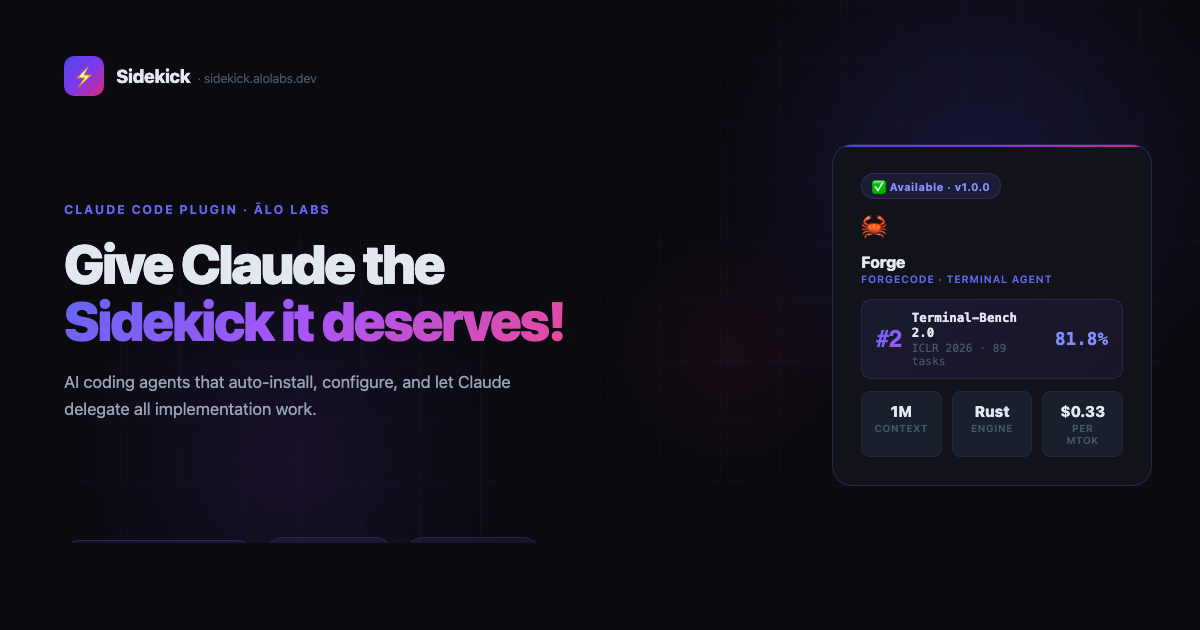
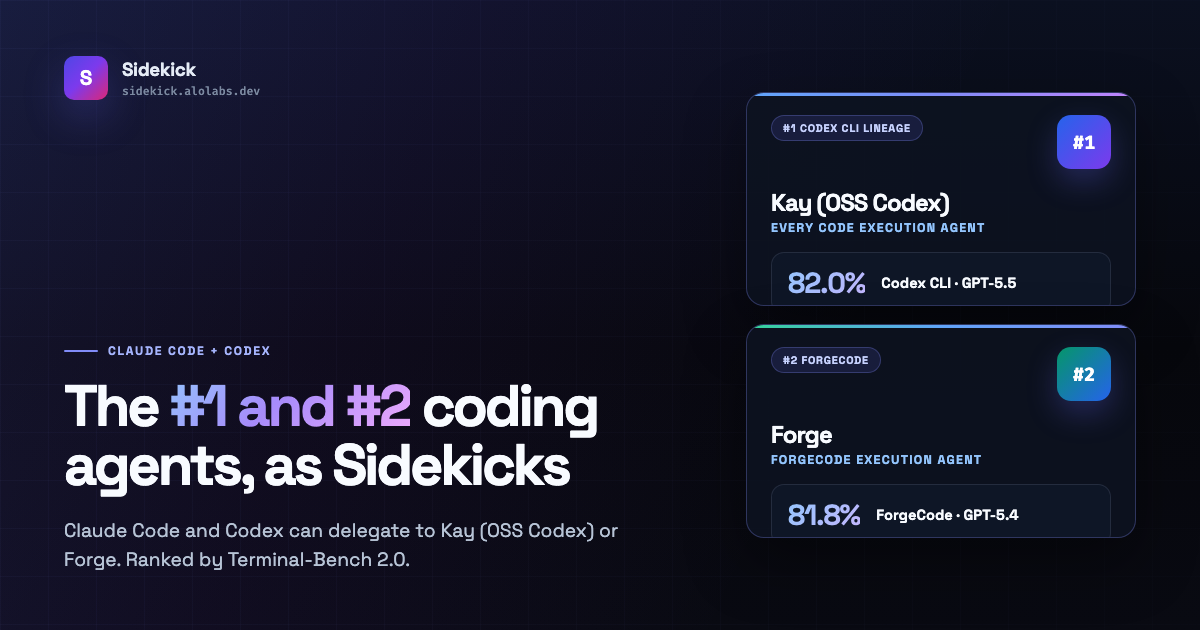
Refresh OpenGraph image for current agent support

diff --git a/docs/og-image.html b/docs/og-image.html
@@ -3,206 +3,177 @@
 <head>
 <meta charset="utf-8">
 <meta name="viewport" content="width=1200">
-<link href="https://fonts.googleapis.com/css2?family=Space+Grotesk:wght@400;700;800;900&family=Fira+Code:wght@500&display=swap" rel="stylesheet">
+<link href="https://fonts.googleapis.com/css2?family=Space+Grotesk:wght@400;600;700;800;900&family=Fira+Code:wght@500;700&display=swap" rel="stylesheet">
 <style>
 *{box-sizing:border-box;margin:0;padding:0}
 html,body{width:1200px;height:630px;overflow:hidden}
 body{
   font-family:'Space Grotesk',system-ui,sans-serif;
-  background:#0a0a0f;
-  color:#e2e8f0;
+  background:#07080d;
+  color:#e5ecf6;
   position:relative;
 }
-/* Background blobs */
-.blob-1{
-  position:absolute;top:-120px;right:-80px;
-  width:600px;height:600px;border-radius:50%;
-  background:radial-gradient(ellipse,rgba(79,70,229,.18) 0%,transparent 65%);
+body::before{
+  content:'';position:absolute;inset:0;
+  background:
+    linear-gradient(115deg,rgba(99,102,241,.15) 0%,rgba(124,58,237,.07) 33%,rgba(7,8,13,0) 68%),
+    linear-gradient(180deg,#0b1020 0%,#07080d 55%,#090a12 100%);
 }
-.blob-2{
-  position:absolute;bottom:-80px;left:40px;
-  width:500px;height:500px;border-radius:50%;
-  background:radial-gradient(ellipse,rgba(124,58,237,.12) 0%,transparent 65%);
-}
-.blob-3{
-  position:absolute;top:200px;right:320px;
-  width:300px;height:300px;border-radius:50%;
-  background:radial-gradient(ellipse,rgba(219,39,119,.07) 0%,transparent 65%);
-}
-/* Grid lines */
-.grid-lines{
-  position:absolute;inset:0;
+body::after{
+  content:'';position:absolute;inset:0;
   background-image:
-    linear-gradient(rgba(99,102,241,.04) 1px, transparent 1px),
-    linear-gradient(90deg, rgba(99,102,241,.04) 1px, transparent 1px);
-  background-size:60px 60px;
+    linear-gradient(rgba(129,140,248,.05) 1px,transparent 1px),
+    linear-gradient(90deg,rgba(129,140,248,.05) 1px,transparent 1px);
+  background-size:48px 48px;
+  mask-image:linear-gradient(90deg,rgba(0,0,0,.8),rgba(0,0,0,.2));
 }
 .content{
   position:relative;z-index:1;
-  display:flex;align-items:stretch;
   width:1200px;height:630px;
-}
-/* Left panel */
-.left{
-  flex:1;
+  display:grid;grid-template-columns:1fr 390px;gap:50px;
   padding:56px 64px;
-  display:flex;flex-direction:column;justify-content:space-between;
+}
+.left{
+  display:flex;flex-direction:column;justify-content:space-between;min-width:0;
 }
 .logo{
-  display:flex;align-items:center;gap:12px;
+  display:flex;align-items:center;gap:14px;
 }
-.logo-icon{
-  width:40px;height:40px;border-radius:10px;
-  background:linear-gradient(135deg,#4f46e5,#7c3aed,#db2777);
+.logo-mark{
+  width:44px;height:44px;border-radius:10px;
   display:flex;align-items:center;justify-content:center;
-  font-size:1.2rem;
+  background:linear-gradient(135deg,#4f46e5,#7c3aed 48%,#db2777);
+  color:#fff;font-size:1.3rem;font-weight:900;
+  box-shadow:0 16px 40px rgba(99,102,241,.26);
 }
 .logo-text{
-  font-size:1.15rem;font-weight:800;letter-spacing:-.02em;
-  color:#e2e8f0;
+  display:flex;flex-direction:column;gap:2px;
+}
+.logo-name{
+  font-size:1.18rem;font-weight:900;letter-spacing:-.02em;
 }
 .logo-domain{
-  font-size:.8rem;color:#475569;margin-left:4px;font-weight:400;
+  font-family:'Fira Code',monospace;font-size:.72rem;color:#7c8aa1;
 }
 .headline{
-  flex:1;display:flex;flex-direction:column;justify-content:center;
-  padding:0 0 8px;
+  max-width:680px;margin-top:18px;
 }
 .eyebrow{
-  font-size:.78rem;font-weight:700;letter-spacing:.14em;
-  text-transform:uppercase;color:#6366f1;margin-bottom:18px;
+  display:inline-flex;align-items:center;gap:10px;
+  font-size:.76rem;font-weight:800;letter-spacing:.14em;text-transform:uppercase;
+  color:#a5b4fc;margin-bottom:18px;
+}
+.eyebrow::before{
+  content:'';width:34px;height:2px;border-radius:999px;background:#818cf8;
 }
 h1{
-  font-size:3.4rem;font-weight:900;line-height:1.05;
-  letter-spacing:-.04em;margin-bottom:20px;
+  font-size:3.62rem;font-weight:900;line-height:1.02;
+  letter-spacing:-.055em;margin-bottom:22px;color:#f8fbff;
+  max-width:720px;
 }
 h1 .gradient{
-  background:linear-gradient(135deg,#6366f1 0%,#a855f7 50%,#ec4899 100%);
-  -webkit-background-clip:text;-webkit-text-fill-color:transparent;
-  background-clip:text;
+  background:linear-gradient(135deg,#93c5fd 0%,#a78bfa 44%,#f0abfc 100%);
+  -webkit-background-clip:text;-webkit-text-fill-color:transparent;background-clip:text;
 }
 .subtitle{
-  font-size:1.05rem;color:#94a3b8;line-height:1.6;
-  max-width:480px;
+  font-size:1.2rem;line-height:1.48;color:#b7c4d6;max-width:610px;
 }
-.bottom-row{
-  display:flex;align-items:center;gap:12px;flex-wrap:wrap;
-}
-.pill{
-  display:inline-flex;align-items:center;gap:6px;
-  padding:7px 16px;border-radius:999px;
-  background:rgba(99,102,241,.1);
-  border:1px solid rgba(99,102,241,.2);
-  font-size:.78rem;font-weight:700;color:#818cf8;
-  font-family:'Fira Code',monospace;letter-spacing:.02em;
-}
-/* Right panel */
+.subtitle strong{color:#f8fbff}
 .right{
-  width:400px;flex-shrink:0;
-  padding:48px 48px 48px 32px;
-  display:flex;flex-direction:column;gap:16px;justify-content:center;
+  display:flex;flex-direction:column;justify-content:center;gap:18px;
 }
-.card{
-  background:#12121a;
-  border:1px solid rgba(99,102,241,.25);
-  border-radius:20px;padding:28px;
+.agent-card{
   position:relative;overflow:hidden;
+  height:214px;padding:22px 24px;
+  background:rgba(13,18,32,.88);
+  border:1px solid rgba(129,140,248,.3);
+  border-radius:18px;
+  box-shadow:0 24px 60px rgba(0,0,0,.38);
 }
-.card::before{
-  content:'';position:absolute;top:0;left:0;right:0;height:2px;
-  background:linear-gradient(90deg,#4f46e5,#7c3aed,#db2777);
+.agent-card::before{
+  content:'';position:absolute;top:0;left:0;right:0;height:3px;
+  background:linear-gradient(90deg,#60a5fa,#818cf8,#c084fc);
 }
-.card-badge{
+.agent-card.forge::before{
+  background:linear-gradient(90deg,#34d399,#60a5fa,#818cf8);
+}
+.card-top{
+  display:flex;align-items:flex-start;justify-content:space-between;gap:16px;margin-bottom:18px;
+}
+.badge{
   display:inline-flex;align-items:center;gap:6px;
-  background:rgba(99,102,241,.12);border:1px solid rgba(99,102,241,.22);
-  border-radius:999px;padding:3px 10px;font-size:.68rem;font-weight:700;
-  color:#818cf8;letter-spacing:.04em;margin-bottom:12px;
+  padding:5px 11px;border-radius:999px;
+  background:rgba(99,102,241,.14);
+  border:1px solid rgba(129,140,248,.28);
+  color:#c7d2fe;font-size:.68rem;font-weight:800;letter-spacing:.07em;text-transform:uppercase;
 }
-.card-logo{font-size:1.6rem;margin-bottom:8px}
-.card-name{font-size:1rem;font-weight:800;letter-spacing:-.02em;margin-bottom:2px}
+.rank{
+  width:54px;height:54px;border-radius:14px;
+  display:flex;align-items:center;justify-content:center;
+  background:linear-gradient(135deg,#2563eb,#7c3aed);
+  color:#fff;font-family:'Fira Code',monospace;font-size:1.18rem;font-weight:900;
+  box-shadow:0 12px 30px rgba(99,102,241,.28);
+}
+.forge .rank{background:linear-gradient(135deg,#059669,#2563eb)}
+.card-name{
+  font-size:1.5rem;font-weight:900;letter-spacing:-.04em;margin-bottom:2px;color:#f8fbff;
+}
 .card-role{
-  font-size:.65rem;font-weight:600;text-transform:uppercase;letter-spacing:.08em;
-  color:#6366f1;margin-bottom:14px;
+  font-size:.78rem;font-weight:800;text-transform:uppercase;letter-spacing:.1em;color:#93c5fd;margin-bottom:16px;
 }
-.benchmark{
-  display:flex;align-items:center;gap:10px;
-  background:linear-gradient(135deg,rgba(99,102,241,.1),rgba(124,58,237,.07));
-  border:1px solid rgba(99,102,241,.18);
-  border-radius:10px;padding:10px 14px;
-  font-family:'Fira Code',monospace;font-size:.78rem;color:#818cf8;font-weight:500;
+.score-row{
+  display:grid;grid-template-columns:auto 1fr;gap:16px;align-items:center;
+  background:rgba(15,23,42,.72);
+  border:1px solid rgba(148,163,184,.16);
+  border-radius:13px;padding:12px 16px;
 }
-.benchmark .score{
-  font-size:1.5rem;font-weight:900;
-  background:linear-gradient(135deg,#6366f1,#a855f7);
-  -webkit-background-clip:text;-webkit-text-fill-color:transparent;
-  background-clip:text;
-  font-family:'Space Grotesk',sans-serif;letter-spacing:-.02em;
+.score{
+  font-size:1.8rem;font-weight:900;letter-spacing:-.04em;
+  background:linear-gradient(135deg,#93c5fd,#c4b5fd);
+  -webkit-background-clip:text;-webkit-text-fill-color:transparent;background-clip:text;
 }
-.stat-row{
-  display:flex;gap:10px;margin-top:12px;
-}
-.stat{
-  flex:1;background:rgba(30,41,59,.6);border:1px solid #1e293b;
-  border-radius:8px;padding:10px 12px;text-align:center;
-}
-.stat .val{font-size:.95rem;font-weight:800;color:#e2e8f0;margin-bottom:2px}
-.stat .lbl{font-size:.62rem;color:#475569;font-weight:600;text-transform:uppercase;letter-spacing:.06em}
+.score-copy{font-size:.92rem;color:#f8fbff;font-weight:800;line-height:1.25}
 </style>
 </head>
 <body>
-<div class="blob-1"></div>
-<div class="blob-2"></div>
-<div class="blob-3"></div>
-<div class="grid-lines"></div>
 <div class="content">
   <div class="left">
     <div class="logo">
-      <div class="logo-icon">⚡</div>
-      <span class="logo-text">Sidekick<span class="logo-domain"> · sidekick.alolabs.dev</span></span>
+      <div class="logo-mark">S</div>
+      <div class="logo-text">
+        <div class="logo-name">Sidekick</div>
+        <div class="logo-domain">sidekick.alolabs.dev</div>
+      </div>
     </div>
     <div class="headline">
-      <div class="eyebrow">Claude Code + Codex Plugin · Ālo Labs</div>
-      <h1>Reduce Claude Code and Codex costs by up to <span class="gradient">70%</span></h1>
-      <p class="subtitle">Forge and Kay route implementation through lower-cost AI APIs such as MiniMax.io and OpenCode Go. Claude Code or Codex stays as the advisor that reviews and mentors the agents.</p>
-    </div>
-    <div class="bottom-row">
-      <span class="pill">⚡ Claude Code Plugin</span>
-      <span class="pill">⌘ Codex Plugin</span>
-      <span class="pill">🧠 Kay</span>
-      <span class="pill">🦀 ForgeCode</span>
-      <span class="pill">MiniMax.io</span>
-      <span class="pill">OpenCode Go</span>
+      <div class="eyebrow">Claude Code + Codex</div>
+      <h1>The <span class="gradient">#1 and #2</span> coding agents, as Sidekicks</h1>
+      <p class="subtitle">Claude Code and Codex can delegate to Kay (OSS Codex) or Forge. Ranked by Terminal-Bench 2.0.</p>
     </div>
   </div>
   <div class="right">
-    <div class="card">
-      <div class="card-badge">✅ Available · Kay Agent</div>
-      <div class="card-logo">🧠</div>
-      <div class="card-name">Kay</div>
-      <div class="card-role">Every Code Agent</div>
-      <div class="benchmark">
-        <div>
-          <div class="score">M2.7</div>
-        </div>
-        <div>
-          <div style="font-weight:700;color:#e2e8f0;margin-bottom:2px">Code exec path</div>
-          <div style="color:#475569;font-size:.7rem">MiniMax.io · OpenCode Go</div>
-        </div>
-        <div style="margin-left:auto;font-size:1.1rem;font-weight:800;color:#818cf8">Open</div>
+    <div class="agent-card kay">
+      <div class="card-top">
+        <div class="badge">#1 Codex CLI lineage</div>
+        <div class="rank">#1</div>
       </div>
-      <div class="stat-row">
-        <div class="stat">
-          <div class="val">code</div>
-          <div class="lbl">Binary</div>
-        </div>
-        <div class="stat">
-          <div class="val">codex</div>
-          <div class="lbl">Alias</div>
-        </div>
-        <div class="stat">
-          <div class="val">multi</div>
-          <div class="lbl">Fallback</div>
-        </div>
+      <div class="card-name">Kay (OSS Codex)</div>
+      <div class="card-role">Every Code execution agent</div>
+      <div class="score-row">
+        <div class="score">82.0%</div>
+        <div class="score-copy">Codex CLI · GPT-5.5</div>
+      </div>
+    </div>
+    <div class="agent-card forge">
+      <div class="card-top">
+        <div class="badge">#2 ForgeCode</div>
+        <div class="rank">#2</div>
+      </div>
+      <div class="card-name">Forge</div>
+      <div class="card-role">ForgeCode execution agent</div>
+      <div class="score-row">
+        <div class="score">81.8%</div>
+        <div class="score-copy">ForgeCode · GPT-5.4</div>
       </div>
     </div>
   </div>
